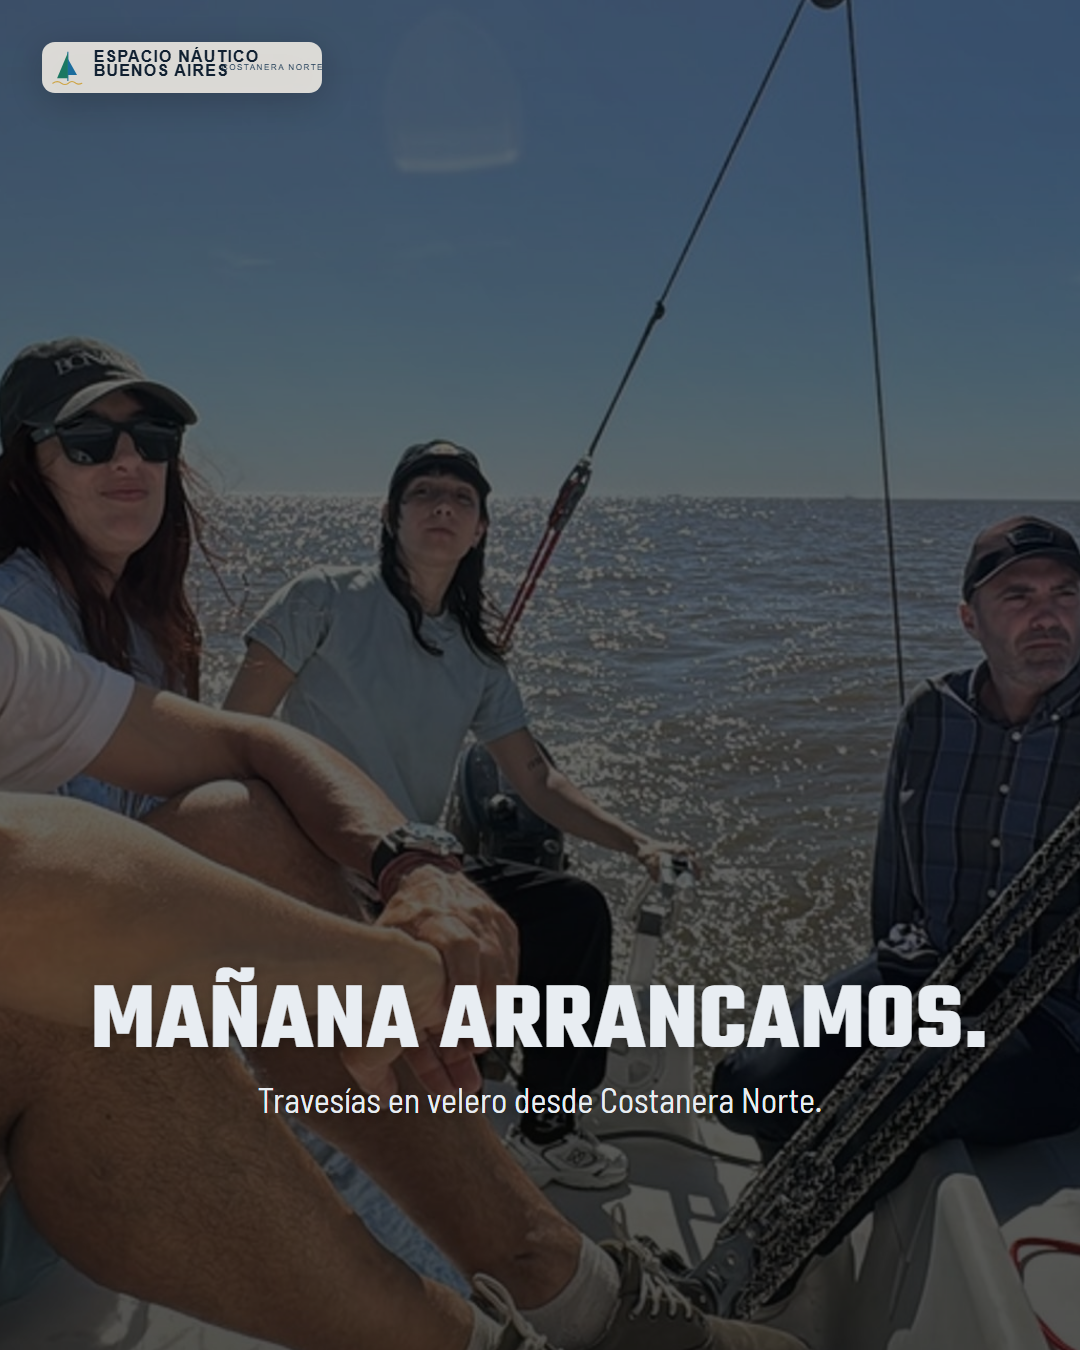
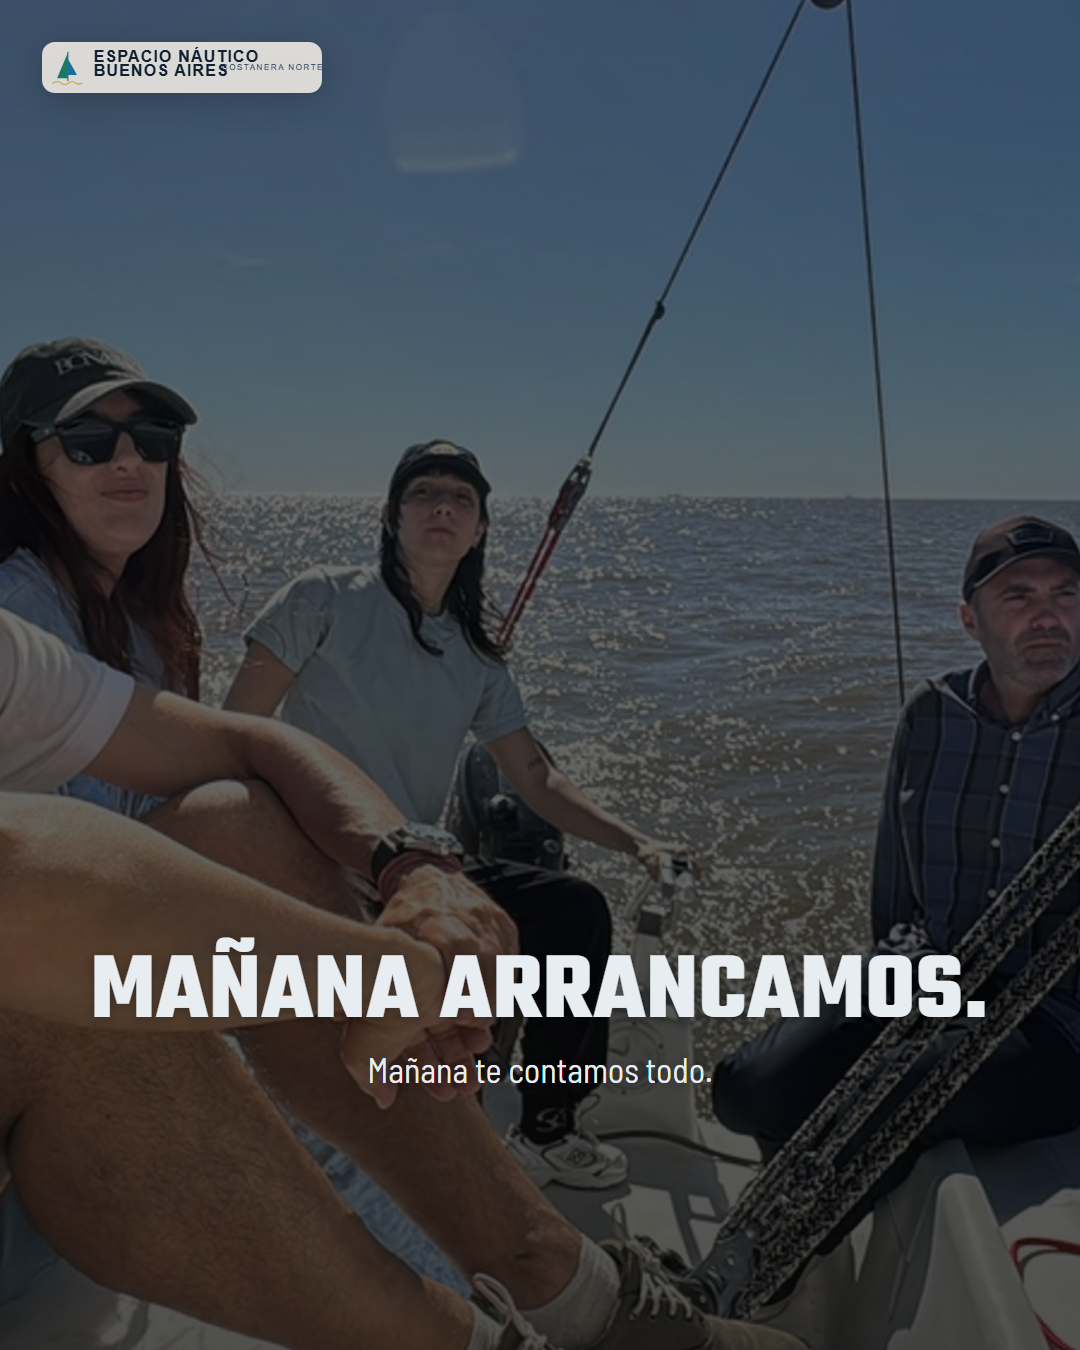
Teaser: ajustes Dani (copyBottom), Marina (subtítulo misterio), Nico (FB claridad)

Changed region(s): [[0.0611, 0.6844, 0.9167, 0.84]]

diff --git a/staging/preview-teaser.html b/staging/preview-teaser.html
@@ -60,7 +60,7 @@ Mañana arrancamos a mostrar lo que hacemos: travesías en velero desde Costaner
     <img class="card-image" src="/campaigns/teaser-pre-lanzamiento/slide-01.png" alt="Teaser ENBA">
     <div class="card-caption">Mañana arrancamos.
 
-Espacio Náutico Buenos Aires empieza a mostrar lo que hace, desde dónde opera y por qué el río es mucho más cercano de lo que parece.
+Espacio Náutico Buenos Aires empieza a mostrar lo que hace: travesías en velero desde Costanera Norte, con experiencia real y acompañamiento de verdad.
 
 👉 Seguinos para estar al tanto.
 
